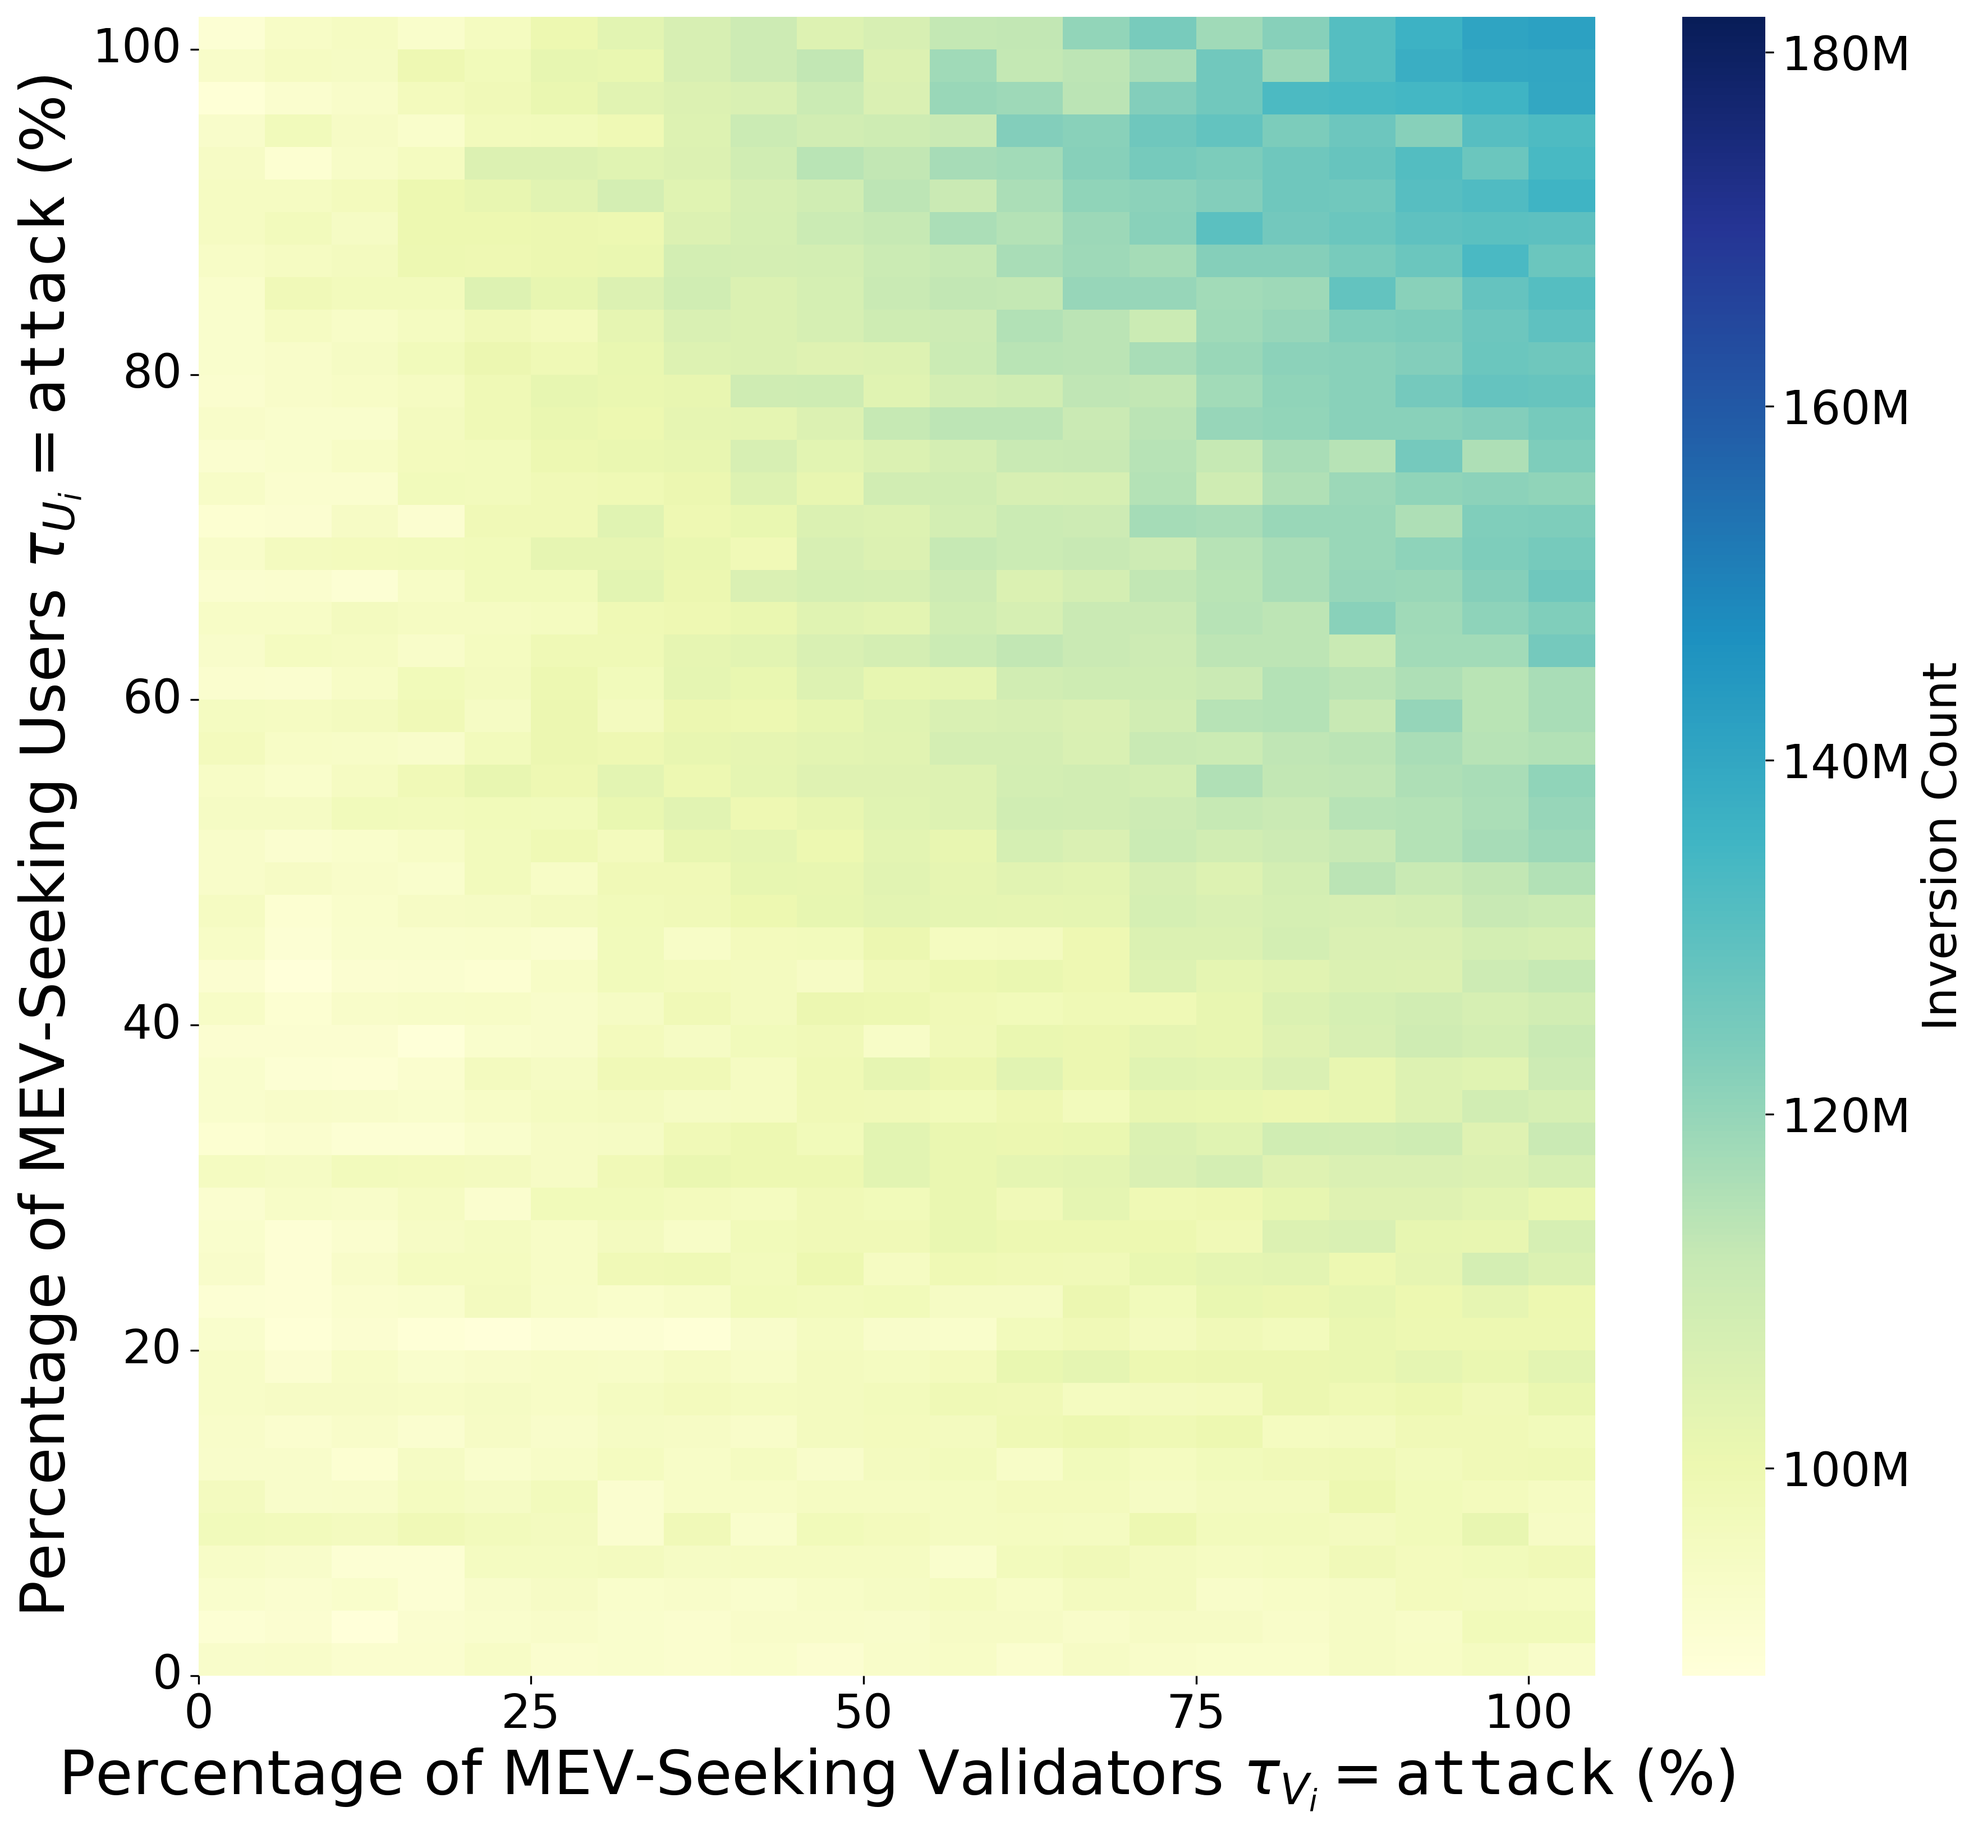
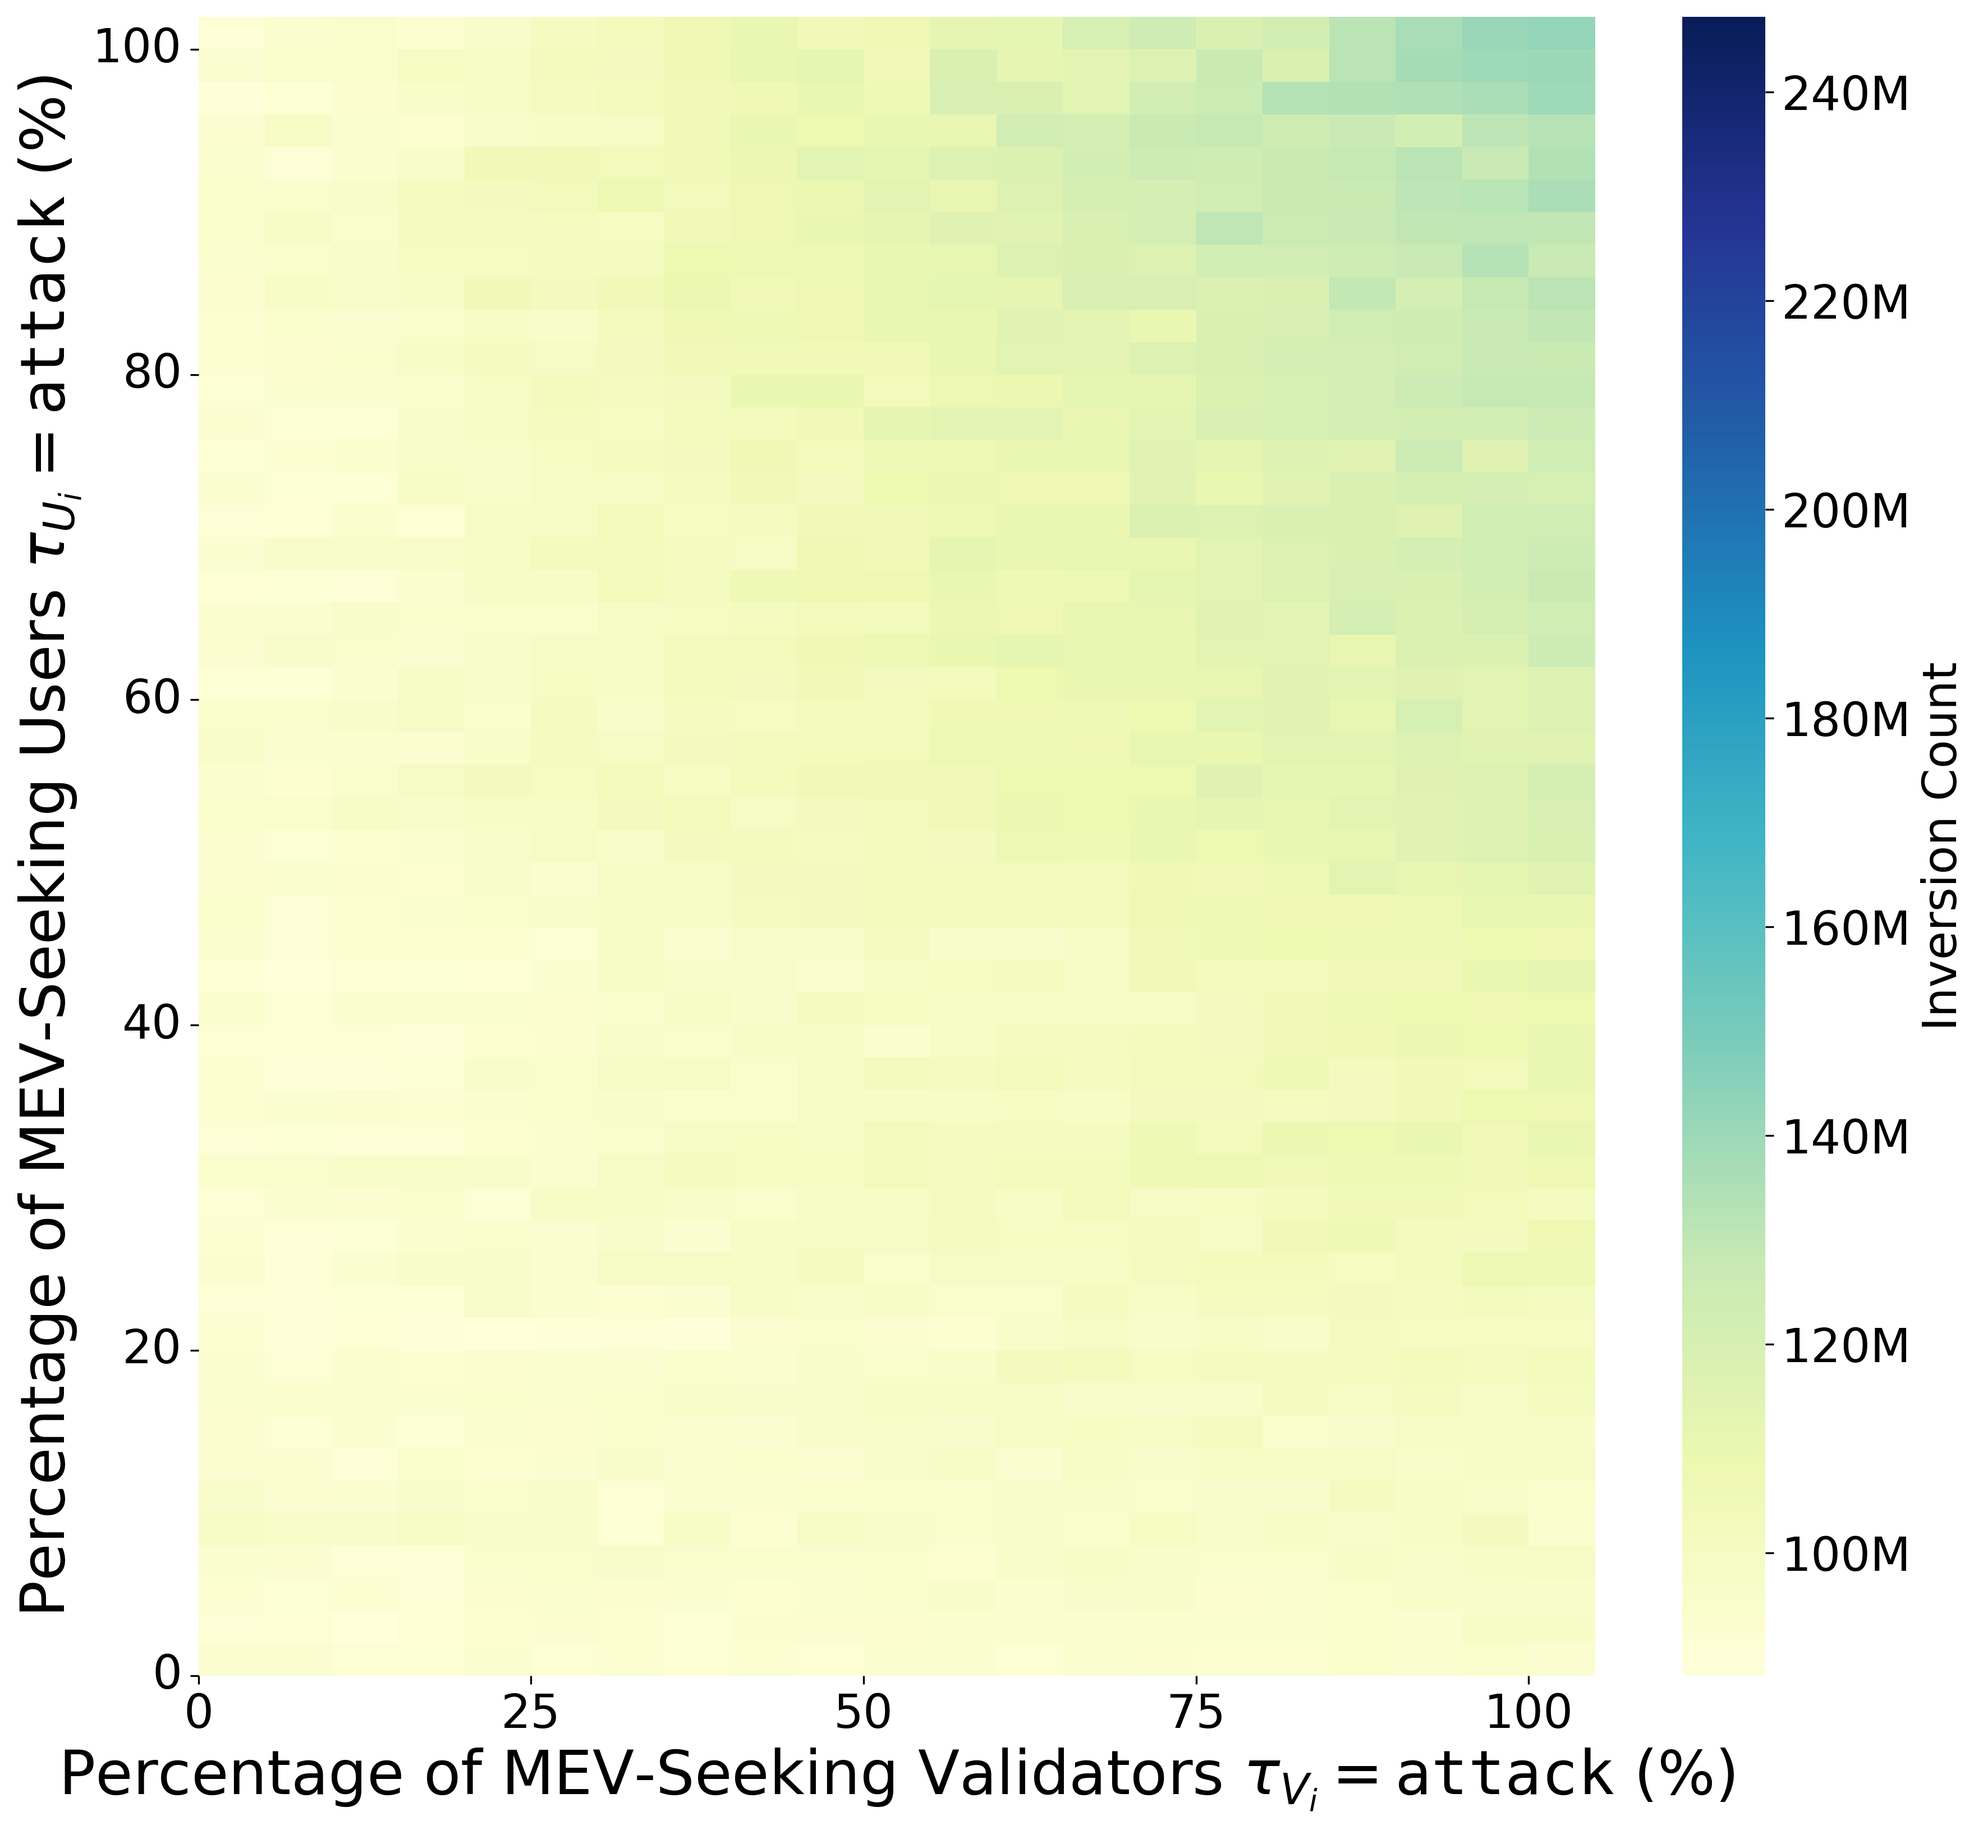
heatmap

diff --git a/plots/ss/block_build_proportions.py b/plots/ss/block_build_proportions.py
@@ -3,6 +3,8 @@ import os
 import matplotlib.pyplot as plt
 import numpy as np
 import seaborn as sns
+import pandas as pd
+from matplotlib import ticker
 
 # Constants
 TOTAL_VALIDATORS = 20
@@ -41,148 +43,116 @@ def get_final_percentages(file_path, attack_count):
     
     return attacking_pct, non_attacking_pct
 
-def create_comparison_bar_chart():
-    """Create separate stacked bar charts for POS and PBS."""
-    # Set seaborn style
+def process_all_files(data_folder_path, system_type):
+    """
+    Process all block data files in a folder for different builder/validator and user configurations.
+    Returns a dictionary with attacking percentages for each configuration.
+    """
+    results = {}
+    
+    for filename in os.listdir(data_folder_path):
+        if filename.startswith(f"{system_type}_block_data"):
+            parts = filename.split("_")
+            
+            # Extract validator/builder count and user count
+            if "validators" in parts[3]:
+                entity_attack_count = int(parts[3].replace("validators", ""))
+            elif "builders" in parts[3]:
+                entity_attack_count = int(parts[3].replace("builders", ""))
+            else:
+                continue
+                
+            user_attack_count = int(parts[4].replace("users", "").split(".")[0])
+            
+            file_path = os.path.join(data_folder_path, filename)
+            attacking_pct, non_attacking_pct = get_final_percentages(file_path, entity_attack_count)
+            
+            if user_attack_count not in results:
+                results[user_attack_count] = {}
+            results[user_attack_count][entity_attack_count] = attacking_pct
+    
+    return results
+
+def plot_heatmap(results, title, output_folder_path, x_label, y_label, system_type):
+    """
+    Plot a heatmap of attacking percentages for each user and builder/validator configuration.
+    """
+    df = pd.DataFrame(results).T.sort_index(ascending=False).sort_index(axis=1)
+    
+    # Create the heatmap - exactly like tx_order.py
+    plt.figure(figsize=(12, 11))
+    sns.heatmap(df, annot=False, fmt=".1f", cmap="YlGnBu", cbar_kws={'label': "Percentage of blocks built by attacking participants"}, vmin=0, vmax=100)
+    plt.xlabel(x_label, fontsize=26)
+    plt.ylabel(y_label, fontsize=26)
+    plt.xticks(ticks=[0, 5, 10, 15, 20], labels=[0, 25, 50, 75, 100], fontsize=20)
+    plt.yticks(ticks=[0, 10, 20, 30, 40, 50], labels=[0, 20, 40, 60, 80, 100], fontsize=20)
+    
+    plt.gca().invert_yaxis()
+    
+    # Force y-axis labels to be horizontal like x-axis
+    plt.gca().tick_params(axis='y', labelrotation=0)
+    
+    # Access the color bar and customize its label and tick size - exactly like tx_order.py
+    cbar = plt.gca().collections[0].colorbar
+    cbar.set_label("Percentage of blocks built by attacking participants", size=20)
+    cbar.ax.tick_params(labelsize=20)
+    
+    plt.tight_layout()
+    
+    # Save the heatmap
+    output_path = os.path.join(output_folder_path, f"{title.replace(' ', '_').lower()}.png")
+    plt.savefig(output_path, dpi=300, bbox_inches='tight')
+    plt.close()
+    print(f"Heatmap saved to {output_path}")
+
+def create_heatmap_visualization():
+    """Create heatmap visualizations for POS and PBS showing attacking percentages across all configurations."""
+    # Set seaborn style to match tx_order.py
     sns.set_style("whitegrid")
-    sns.set_palette("husl")
+    plt.rcParams['xtick.labelsize'] = 20
+    plt.rcParams['ytick.labelsize'] = 20
+    plt.rcParams['xtick.direction'] = 'inout'
+    plt.rcParams['ytick.direction'] = 'inout'
     
     output_dir = 'figures/ss'
     os.makedirs(output_dir, exist_ok=True)
-    
-    # Configuration for the 3x3 grid - reordered to group by builder percentage first
-    configs = [
-        (5, 0), (5, 25), (5, 50),    # 25% builders with 0%, 50%, 100% users
-        (10, 0), (10, 25), (10, 50), # 50% builders with 0%, 50%, 100% users  
-        (15, 0), (15, 25), (15, 50)  # 75% builders with 0%, 50%, 100% users
-    ]
     
     # Data paths
     pos_data_folder = 'data/same_seed/pos_visible80'
     pbs_data_folder = 'data/same_seed/pbs_visible80'
     
-    # Collect data
-    pos_data = []
-    pbs_data = []
+    print("Processing POS data...")
+    pos_results = process_all_files(pos_data_folder, "pos")
     
-    for validator_count, user_count in configs:
-        # POS data
-        pos_filename = f"pos_block_data_validators{validator_count}_users{user_count}.csv"
-        pos_filepath = os.path.join(pos_data_folder, pos_filename)
-        
-        if os.path.exists(pos_filepath):
-            pos_att, pos_nonatt = get_final_percentages(pos_filepath, validator_count)
-            pos_data.append((pos_att, pos_nonatt))
-        else:
-            print(f"POS file not found: {pos_filepath}")
-            pos_data.append((0, 0))
-        
-        # PBS data
-        pbs_filename = f"pbs_block_data_builders{validator_count}_users{user_count}.csv"
-        pbs_filepath = os.path.join(pbs_data_folder, pbs_filename)
-        
-        if os.path.exists(pbs_filepath):
-            pbs_att, pbs_nonatt = get_final_percentages(pbs_filepath, validator_count)
-            pbs_data.append((pbs_att, pbs_nonatt))
-        else:
-            print(f"PBS file not found: {pbs_filepath}")
-            pbs_data.append((0, 0))
+    print("Processing PBS data...")
+    pbs_results = process_all_files(pbs_data_folder, "pbs")
     
-    # Configuration labels for POS
-    pos_config_labels = [
-        f"[{validator_count/TOTAL_VALIDATORS*100:.0f}, {user_count/TOTAL_USERS*100:.0f}]"
-        for validator_count, user_count in configs
-    ]
+    # Plot POS heatmap
+    plot_heatmap(
+        pos_results, 
+        "PoS Block Build Proportions - Attacking Validators", 
+        output_dir,
+        r"Percentage of Attacking Validators $\tau_{V_i} = \mathtt{attack}$ (%)",
+        r"Percentage of Attacking Users $\tau_{U_i} = \mathtt{attack}$ (%)",
+        "pos"
+    )
     
-    # Configuration labels for PBS
-    pbs_config_labels = [
-        f"[{validator_count/TOTAL_BUILDERS*100:.0f}, {user_count/TOTAL_USERS*100:.0f}]"
-        for validator_count, user_count in configs
-    ]
-    
-    y = np.arange(len(configs))
-    height = 0.35
-    
-    # Font sizes
-    label_font_size = 24
-    tick_label_font_size = 20
-    legend_font_size = 20
-    
-    # Create POS plot
-    fig1, ax1 = plt.subplots(figsize=(10, 10))
-    
-    # POS stacked bars
-    pos_attacking = [data[0] for data in pos_data]
-    pos_nonattacking = [data[1] for data in pos_data]
-    
-    # Use seaborn color codes like the example
-    sns.set_color_codes("pastel")
-    ax1.barh(y, pos_attacking, height, label=r'$\tau_{V_i} = \mathtt{attack}$', 
-             color="b")
-    
-    sns.set_color_codes("muted")
-    ax1.barh(y, pos_nonattacking, height, left=pos_attacking, 
-             label=r'$\tau_{V_i} = \mathtt{benign}$', color="b")
-    
-    ax1.set_xlabel('Percentage of Selections at Block 1000 (%)', fontsize=label_font_size)
-    ax1.set_ylabel('Attacking class percentage [validator, user]', fontsize=label_font_size)
-    ax1.set_yticks(y)
-    ax1.set_yticklabels(pos_config_labels, fontsize=tick_label_font_size)
-    ax1.legend(fontsize=legend_font_size)
-    ax1.set_xlim(0, 100)
-    ax1.set_xticks([0, 25, 50, 75, 100])
-    ax1.tick_params(axis='both', labelsize=tick_label_font_size)
-    
-    plt.tight_layout()
-    
-    # Save POS plot
-    pos_out_path = os.path.join(output_dir, 'pos_block_build_proportions.png')
-    plt.savefig(pos_out_path, dpi=300, bbox_inches='tight')
-    plt.close()
-    print(f"POS block build proportions saved to {pos_out_path}")
-    
-    # Create PBS plot
-    fig2, ax2 = plt.subplots(figsize=(10, 10))
-    
-    # PBS stacked bars
-    pbs_attacking = [data[0] for data in pbs_data]
-    pbs_nonattacking = [data[1] for data in pbs_data]
-    
-    # Use seaborn color codes like the example
-    sns.set_color_codes("pastel")
-    ax2.barh(y, pbs_attacking, height, label=r'$\tau_{B_i} = \mathtt{attack}$', 
-             color="b")
-    
-    sns.set_color_codes("muted")
-    ax2.barh(y, pbs_nonattacking, height, left=pbs_attacking, 
-             label=r'$\tau_{B_i} = \mathtt{benign}$', color="b")
-    
-    ax2.set_xlabel('Percentage of Selections at Block 1000 (%)', fontsize=label_font_size)
-    ax2.set_ylabel('Attacking class percentage [builder, user]', fontsize=label_font_size)
-    ax2.set_yticks(y)
-    ax2.set_yticklabels(pbs_config_labels, fontsize=tick_label_font_size)
-    ax2.legend(fontsize=legend_font_size)
-    ax2.set_xlim(0, 100)
-    ax2.set_xticks([0, 25, 50, 75, 100])
-    ax2.tick_params(axis='both', labelsize=tick_label_font_size)
-    
-    plt.tight_layout()
-    
-    # Save PBS plot
-    pbs_out_path = os.path.join(output_dir, 'pbs_block_build_proportions.png')
-    plt.savefig(pbs_out_path, dpi=300, bbox_inches='tight')
-    plt.close()
-    print(f"PBS block build proportions saved to {pbs_out_path}")
+    # Plot PBS heatmap
+    plot_heatmap(
+        pbs_results, 
+        "PBS Block Build Proportions - Attacking Builders", 
+        output_dir,
+        r"Percentage of Attacking Builders $\tau_{B_i} = \mathtt{attack}$ (%)",
+        r"Percentage of Attacking Users $\tau_{U_i} = \mathtt{attack}$ (%)",
+        "pbs"
+    )
     
     # Print summary statistics
-    print("\nSummary Statistics:")
-    print("=" * 50)
-    for i, (validator_count, user_count) in enumerate(configs):
-        print(f"Config {i+1} (V{validator_count/TOTAL_VALIDATORS*100:.0f}% U{user_count/TOTAL_USERS*100:.0f}%):")
-        print(f"  POS:  {pos_attacking[i]:.1f}% attacking, {pos_nonattacking[i]:.1f}% benign")
-        print(f"  PBS:  {pbs_attacking[i]:.1f}% attacking, {pbs_nonattacking[i]:.1f}% benign")
-        print()
+    print(f"\nProcessed {len(pos_results)} user configurations for POS")
+    print(f"Processed {len(pbs_results)} user configurations for PBS")
+    print(f"Each configuration has {len(list(pos_results.values())[0])} entity configurations")
+    print("Heatmaps saved successfully!")
 
 if __name__ == "__main__":
-    create_comparison_bar_chart() 
+    create_heatmap_visualization() 
     
